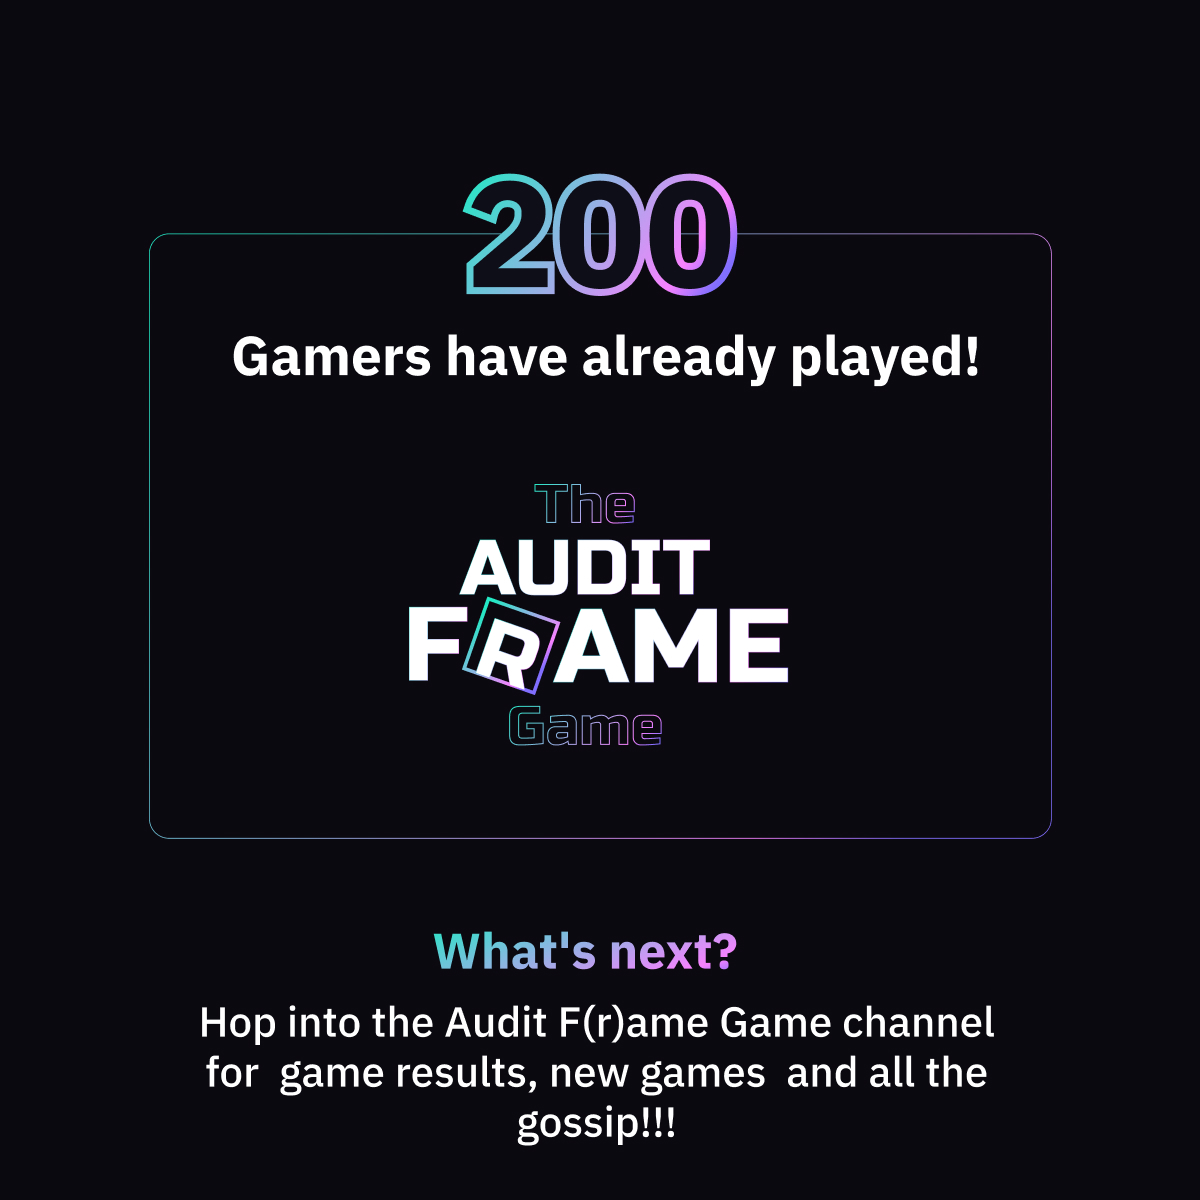
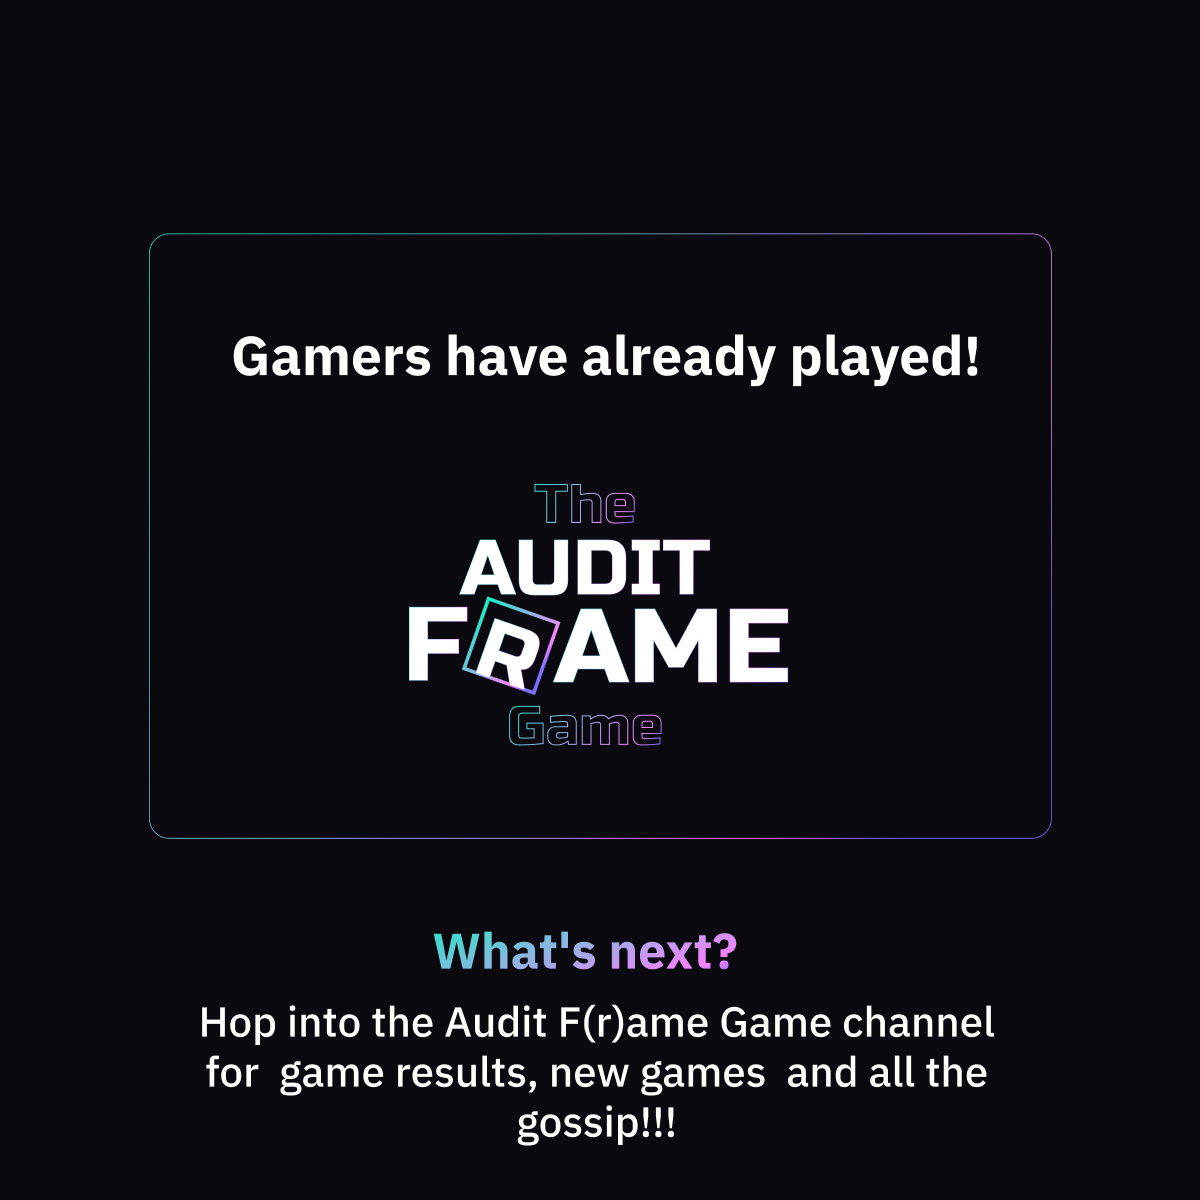
now showing amount of users playing

Changed region(s): [[0.37, 0.1233, 0.6167, 0.2467]]

diff --git a/src/app/game/done/route.tsx b/src/app/game/done/route.tsx
@@ -1,7 +1,6 @@
 import { ImageResponse } from "next/og";
 import { config } from "@/config/config";
 import { IFarcasterUser } from "@/data/models";
-import { getGamePoints } from "@/helpers/getGamePoints";
 
 export const runtime = "experimental-edge";
 
@@ -9,11 +8,16 @@ export async function GET(request: Request) {
   const IBMPlexMono = await fetch(new URL("/public/assets/IBMPlexMono-Regular.ttf", import.meta.url)).then((res) =>
     res.arrayBuffer()
   );
+  const IBMPlexSansBold = await fetch(new URL("/public/assets/IBMPlexSans-Bold.ttf", import.meta.url)).then((res) =>
+    res.arrayBuffer()
+  );
 
   const { searchParams } = new URL(request.url);
 
   const farcasterUserData = searchParams.get("user");
   const farcasterUser = JSON.parse(farcasterUserData || "undefined") as IFarcasterUser | undefined;
+
+  const voters = JSON.parse(searchParams.get("voters") || "0") as number;
 
   return new ImageResponse(
     (
@@ -24,12 +28,36 @@ export async function GET(request: Request) {
         />
 
         {/* POINTS */}
-        <p style={{ color: "white", fontSize: "30px", position: "absolute", top: 10, left: 40 }}>
+        {/* <p style={{ color: "white", fontSize: "30px", position: "absolute", top: 10, left: 40 }}>
           Game points: {getGamePoints(farcasterUser)}
-        </p>
+        </p> */}
         <p style={{ color: "white", fontSize: "30px", position: "absolute", top: 10, right: 40 }}>
           HATs points: {farcasterUser?.hatsPoints ?? 0}
         </p>
+
+        <div
+          style={{
+            display: "flex",
+            flexDirection: "column",
+            alignItems: "center",
+            position: "absolute",
+            top: "5%",
+            width: "100%",
+            textAlign: "center",
+          }}>
+          <div style={{ display: "flex", flexDirection: "column", alignItems: "center", position: "relative" }}>
+            <p
+              style={{
+                fontSize: "150px",
+                color: "transparent",
+                background: "linear-gradient(135deg, #24E8C5, #F782FF, #816FFF)",
+                backgroundClip: "text",
+                fontFamily: "IBMPlexSansBold",
+              }}>
+              {voters}
+            </p>
+          </div>
+        </div>
       </div>
     ),
     {
@@ -40,6 +68,11 @@ export async function GET(request: Request) {
           name: "IBMPlexMono",
           data: IBMPlexMono,
           weight: 400,
+        },
+        {
+          name: "IBMPlexSansBold",
+          data: IBMPlexSansBold,
+          weight: 700,
         },
       ],
     }

diff --git a/src/app/api/voted/route.ts b/src/app/api/voted/route.ts
@@ -2,6 +2,8 @@ import { NextRequest, NextResponse } from "next/server";
 import { FrameRequest, getFrameMessage } from "@coinbase/onchainkit";
 import { config } from "@/config/config";
 import { getUserFromMessage } from "@/helpers/getUserFromMessage";
+import { getEditSessionIdOrAddressFromMessage } from "@/helpers/getEditSessionIdOrAddressFromMessage";
+import { getEditSessionByAddressOrId } from "@/data/requests/getEditSessionByAddressOrId";
 
 export async function POST(req: NextRequest): Promise<Response> {
   const body: FrameRequest = await req.json();
@@ -17,16 +19,22 @@ export async function POST(req: NextRequest): Promise<Response> {
   const user = getUserFromMessage(message);
   const userToSend = encodeURIComponent(JSON.stringify(user));
 
+  // Get edit session
+  const editSessionIdOrAddress = getEditSessionIdOrAddressFromMessage(message);
+  const competitionData = await getEditSessionByAddressOrId(editSessionIdOrAddress);
+  const voters = competitionData?.farcasterVoters?.length ?? 0;
+
   return new NextResponse(`
   <!DOCTYPE html>
   <html>
       <head>
           <meta property="fc:frame" content="vNext" />
           <meta property="fc:frame:image:aspect_ratio" content="1:1" />
-          <meta property="fc:frame:image" content="${config.hostURL}/game/done?user=${userToSend}" />
-          <meta property="og:image" content="${config.hostURL}/game/done?user=${userToSend}" />
+          <meta property="fc:frame:image" content="${config.hostURL}/game/done?user=${userToSend}&voters=${voters}" />
+          <meta property="og:image" content="${config.hostURL}/game/done?user=${userToSend}&voters=${voters}" />
           <meta property="fc:frame:button:1" content="Join the Audit F(r)ame Game Channel" />
-          <meta property="fc:frame:post_url" content="redirectToDiscord" />
+          <meta property="fc:frame:button:1:action" content="link" />
+          <meta property="fc:frame:button:1:target" content="https://discord.gg/nYvMKTzqnX" />
       </head>
   </html>
 `);

diff --git a/src/app/game/voted/route.tsx b/src/app/game/voted/route.tsx
@@ -38,9 +38,9 @@ export async function GET(request: Request) {
     (
       <div style={{ display: "flex", position: "relative", width: 1000, height: 1000, backgroundColor: COLORS.background }}>
         {/* POINTS */}
-        <p style={{ color: "white", fontSize: "30px", position: "absolute", top: 10, left: 40 }}>
+        {/* <p style={{ color: "white", fontSize: "30px", position: "absolute", top: 10, left: 40 }}>
           Game points: {getGamePoints(farcasterUser)}
-        </p>
+        </p> */}
         <p style={{ color: "white", fontSize: "30px", position: "absolute", top: 10, right: 40 }}>
           HATs points: {farcasterUser?.hatsPoints ?? 0}
         </p>

diff --git a/src/app/[addressOrEditSessionId]/page.tsx b/src/app/[addressOrEditSessionId]/page.tsx
@@ -27,7 +27,7 @@ export async function generateMetadata({ params }: IProps): Promise<Metadata> {
   const statusToPost: { [K in ICompetitionStatus]: string } = {
     coming: "",
     voting: `${config.hostURL}/api/start`,
-    // voting: `${config.hostURL}/api/hackers`,
+    // voting: `${config.hostURL}/api/voted`,
     "in-progress": "",
     invalid: "",
     ended: "",
